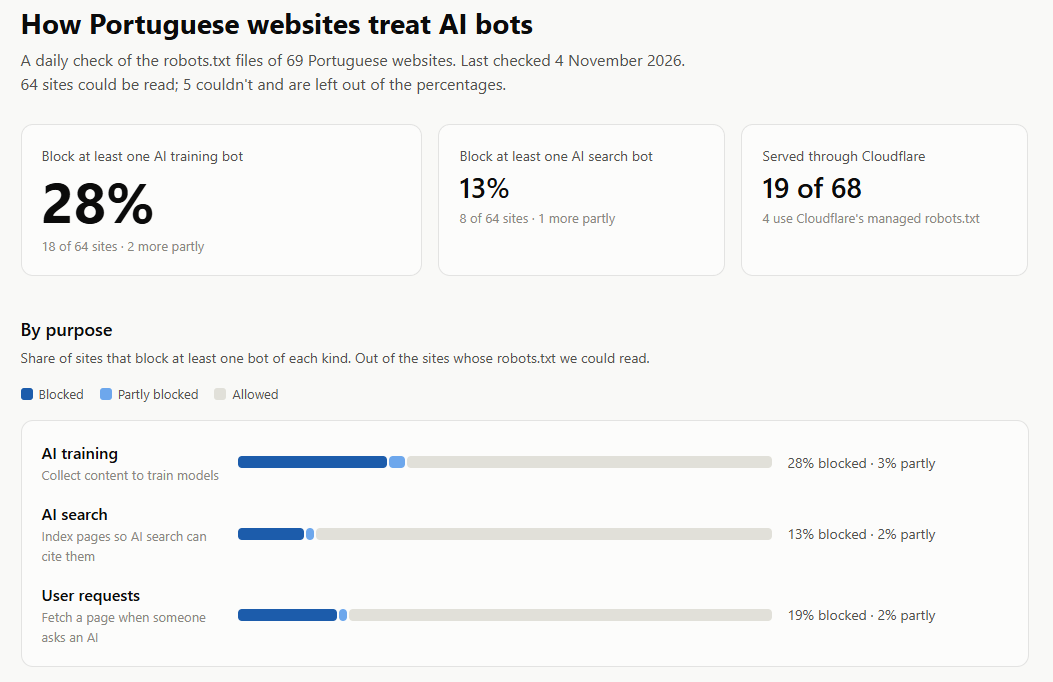
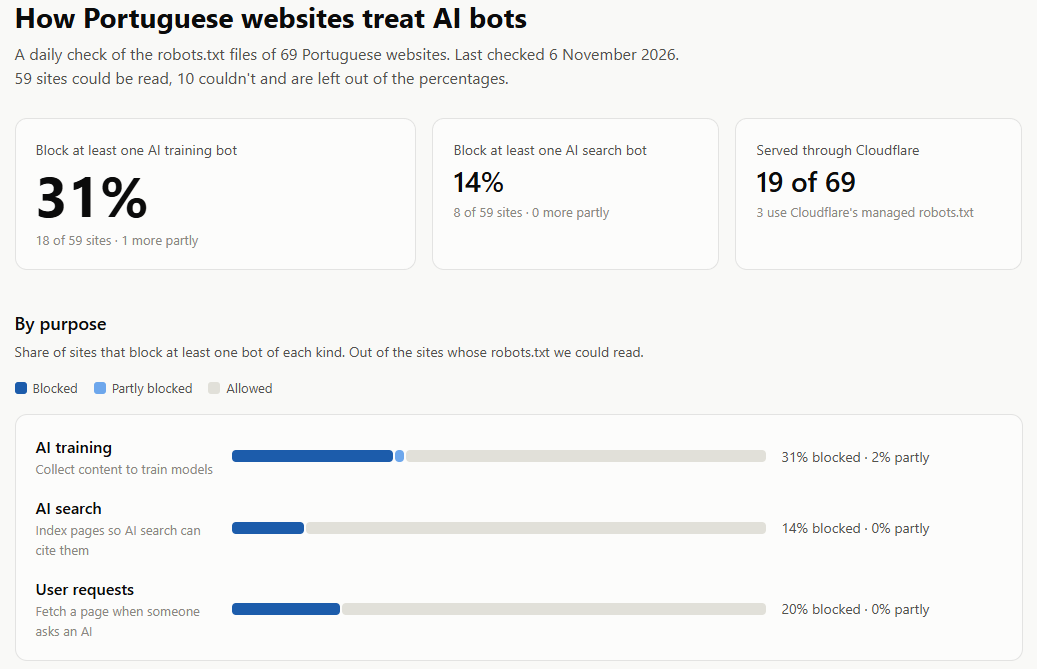
Updated README based on findings and the screenshot on it

diff --git a/README.md b/README.md
@@ -16,16 +16,17 @@ It's a problem every company has learned to live with, and nobody is measuring i
 
 **PT AI Blockers** checks the `robots.txt` of 69 major Portuguese websites every morning, reads it the way a crawler would, and publishes what each site asks of 17 AI bots.
 
-## What the first check found
+## What the checker found
 
-_4 November 2026. 64 of 69 sites could be read, the other 5 answered with bot checks or errors and are left out of the percentages._
+_6 November 2026, from the live Worker. 59 of 69 sites could be read, the other 10 answered with bot checks (8) or server errors (2) and are left out of the percentages._
 
-- **28% fully block at least one AI training bot** (18 of 64), and 2 more block one partly.
-- **It's a media decision.** Half of the broadcasters (5 of 10) and sports sites (5 of 10), and 6 of 14 news sites, block AI training. Public institutions: **0 of 8**. Universities: **1 of 12**. Four public institutions (gov.pt, Portal das Finanças, INE and the Parliament) have no `robots.txt` at all, which under the standard allows every crawler.
+- **31% fully block at least one AI training bot** (18 of 59), and 1 more blocks one partly.
+- **It's a media decision.** More than half of the readable broadcasters (5 of 9) and sports sites (5 of 9), and 6 of 14 news sites, block AI training. Public institutions: **0 of 7**. Universities: **1 of 10**. Four public institutions (gov.pt, Portal das Finanças, INE and the Parliament) have no `robots.txt` at all, and SNS answers with an error (405). Under the standard, both count as allowing every crawler.
 - **Block training, keep search.** 10 sites block AI training but leave AI search bots allowed, while no site does the opposite. 8 block OpenAI's training crawler (GPTBot) while allowing its search crawler (OAI-SearchBot), so they are out of the training data, but still citable in ChatGPT's answers.
-- **OpenAI is blocked twice as often as Anthropic.** GPTBot is blocked by 16 sites, ClaudeBot by 8. ChatGPT-User is the most-blocked bot that acts on a user's request (12 sites), often the only one a site names, even though OpenAI says robots.txt may not apply to it.
-- **Copied blocklists.** 9 sites still list Anthropic's retired bot names (`anthropic-ai`, `Claude-Web`). All of them also block the current ClaudeBot, so the old entries are leftovers from shared lists rather than gaps.
-- **Cloudflare.** 19 of 68 sites are served through Cloudflare. Among readable ones, 8 of 18 (44%) block AI training, against 10 of 46 (22%) elsewhere. 4 use Cloudflare's managed robots.txt, and all 4 declare the same Content Signal: `search=yes, ai-train=no, use=reference`.
+- **OpenAI is blocked twice as often as Anthropic.** GPTBot is blocked by 16 sites (and partly by 2 more), ClaudeBot by 8. ChatGPT-User is the most-blocked bot that acts on a user's request (12 sites), and 7 of those sites block no other bot of that kind, even though OpenAI says robots.txt may not apply to it.
+- **Copied blocklists.** 8 sites still list Anthropic's retired bot names (`anthropic-ai`, `Claude-Web`). All of them also block the current ClaudeBot, so the old entries are leftovers from shared lists rather than gaps.
+- **Cloudflare.** 19 of 69 sites are served through Cloudflare. Among readable ones, 8 of 15 (53%) block AI training, against 10 of 44 (23%) elsewhere. 3 use Cloudflare's managed robots.txt, and all 3 declare the same Content Signal: `search=yes, ai-train=no, use=reference`.
+- **A block that did nothing.** Observador used Cloudflare's managed robots.txt until 5 November, when the managed section disappeared from its file. That section disallowed AI training bots, but Observador's own rules gave the same bots `Allow: /`. Under RFC 9309 a bot's groups are merged and `Allow` wins a tie, so the block never applied, and removing it changed none of Observador's verdicts.
 
 The sample is small, so read the percentages as indicative. The checker runs daily, so the dashboard also builds a history of when sites change their policies.
 
@@ -70,6 +71,7 @@ flowchart LR
 - **Bot purposes come from each operator's documentation** ([`src/bots.ts`](src/bots.ts) links every source). Google-Extended and Applebot-Extended aren't crawlers, they're tokens that opt content out of AI training while normal crawling continues. Bots with no public documentation (Bytespider) are classified from secondary sources and marked as such.
 - **Blocked / partly blocked / allowed.** _Blocked_: the bot may not access `/` and nothing is allowed back. _Partly_: the root is blocked with some paths allowed back, or the bot's own rules block specific sections. Generic rules for every bot (like `/admin/`) don't count. A site "blocks a purpose" if it blocks at least one current bot of that kind.
 - **Cloudflare detection** checks whether the site's IP addresses are in Cloudflare's published ranges, which means it's served through Cloudflare's proxy. An earlier version used the `cf-ray` response header, which works from a normal computer but not from a Worker, because the Worker's own requests pass through Cloudflare. Sites using Cloudflare only for DNS count as not on Cloudflare, and network-level bot blocking isn't visible in robots.txt.
+- **Some sites refuse the Worker.** Requests from a Worker come from Cloudflare's network, and some sites turn those away. 6 sites that could be read from a home connection on 4 November (among them Público and two universities) answer the Worker with a bot check or an error, so fewer sites are readable in production than in a local run.
 - **The sample** is 69 sites chosen for reach and coverage of sectors: national news media, TV and radio, sports media, clubs and governing bodies, tech and lifestyle sites, universities and public institutions. Groups are small (10–15 sites), so one site can move a sector's number noticeably.
 
 ## Project structure
@@ -99,7 +101,7 @@ npm test                                          # 69 tests
 npx wrangler dev --test-scheduled                 # then open /__scheduled to run a batch
 ```
 
-Open `/__scheduled` once per batch (three times for all sites), then open the root URL for the dashboard. To deploy: `npx wrangler d1 migrations apply pt-ai-blockers --remote`, then `npm run deploy`.
+Open `/__scheduled` once per batch (four times for all sites), then open the root URL for the dashboard. To deploy: `npx wrangler d1 migrations apply pt-ai-blockers --remote`, then `npm run deploy`.
 
 ## Tests
 
